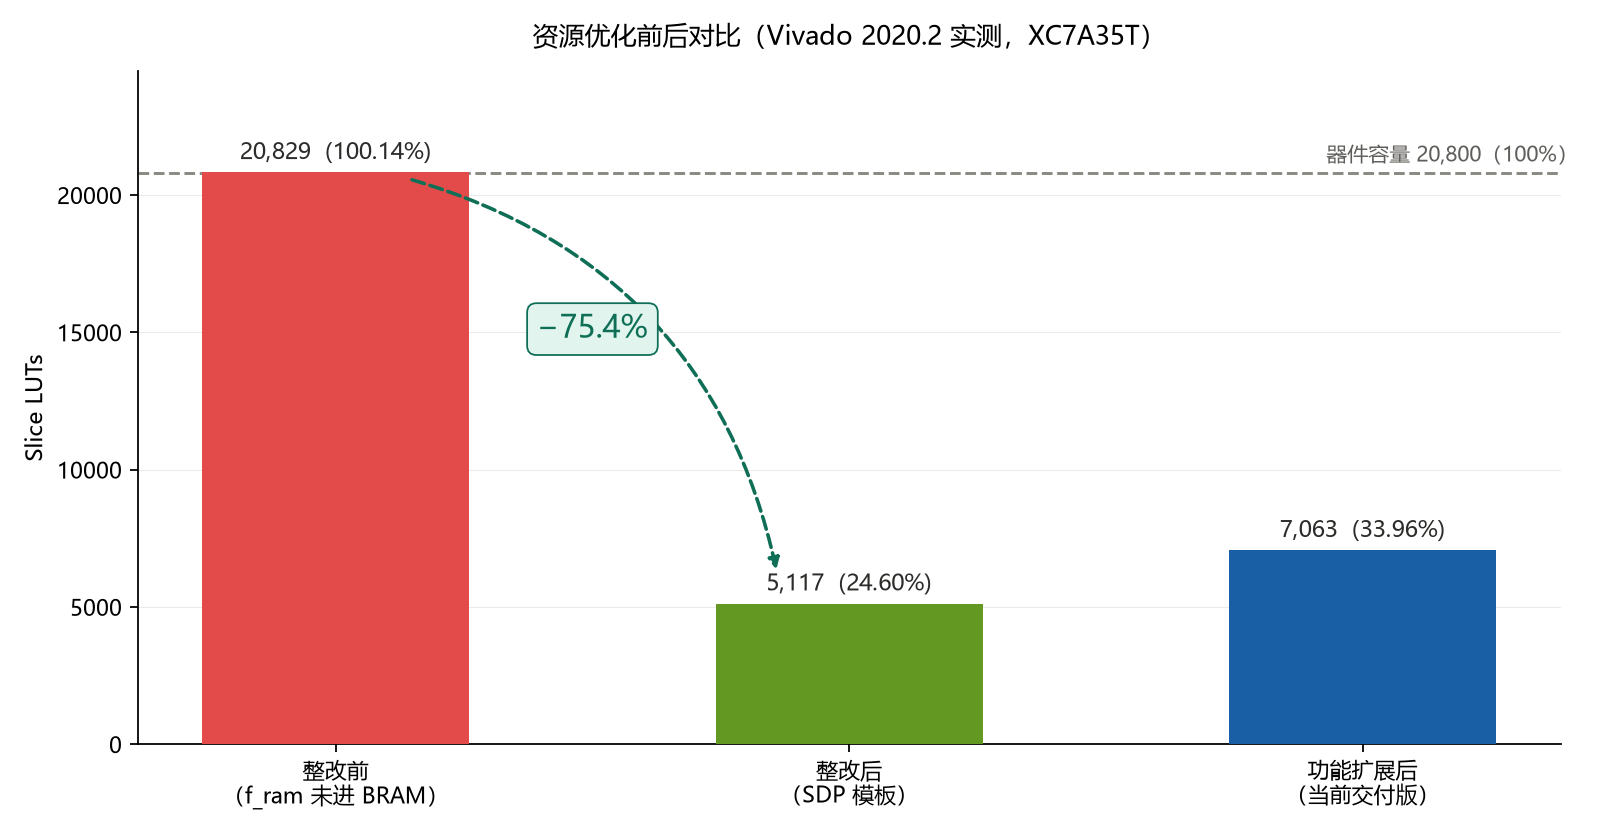
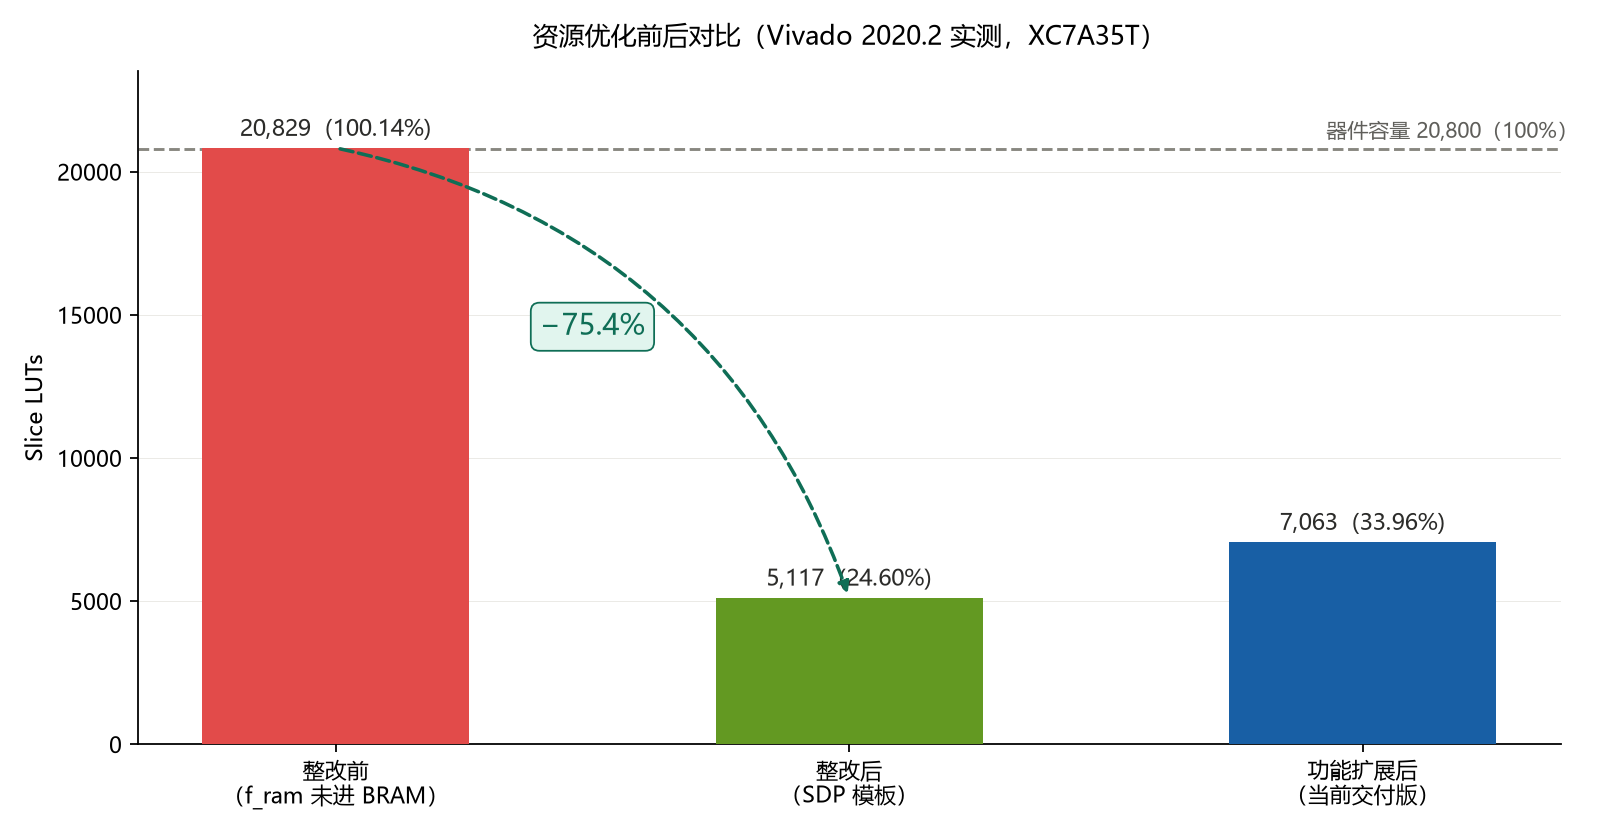
Fix figure generator output path to be relative to the script

diff --git a/report/figures/make_figures.py b/report/figures/make_figures.py
@@ -21,7 +21,8 @@ for f in ['Microsoft YaHei', 'SimHei']:
         continue
 matplotlib.rcParams['axes.unicode_minus'] = False
 
-OUT = r'C:/Users/Lenovo/WorkBuddy/2026-09-02-11-10-14/wavecore/report/figures'
+import os
+OUT = os.path.dirname(os.path.abspath(__file__))
 C_FPGA='#E6F1FB'; C_S='#185FA5'; C_DSP='#E1F5EE'; C_D='#0F6E56'
 C_MEAS='#FAEEDA'; C_M='#854F0B'; C_UI='#EEEDFE'; C_U='#534AB7'
 C_ANA='#FAECE7'; C_A='#993C1D'
